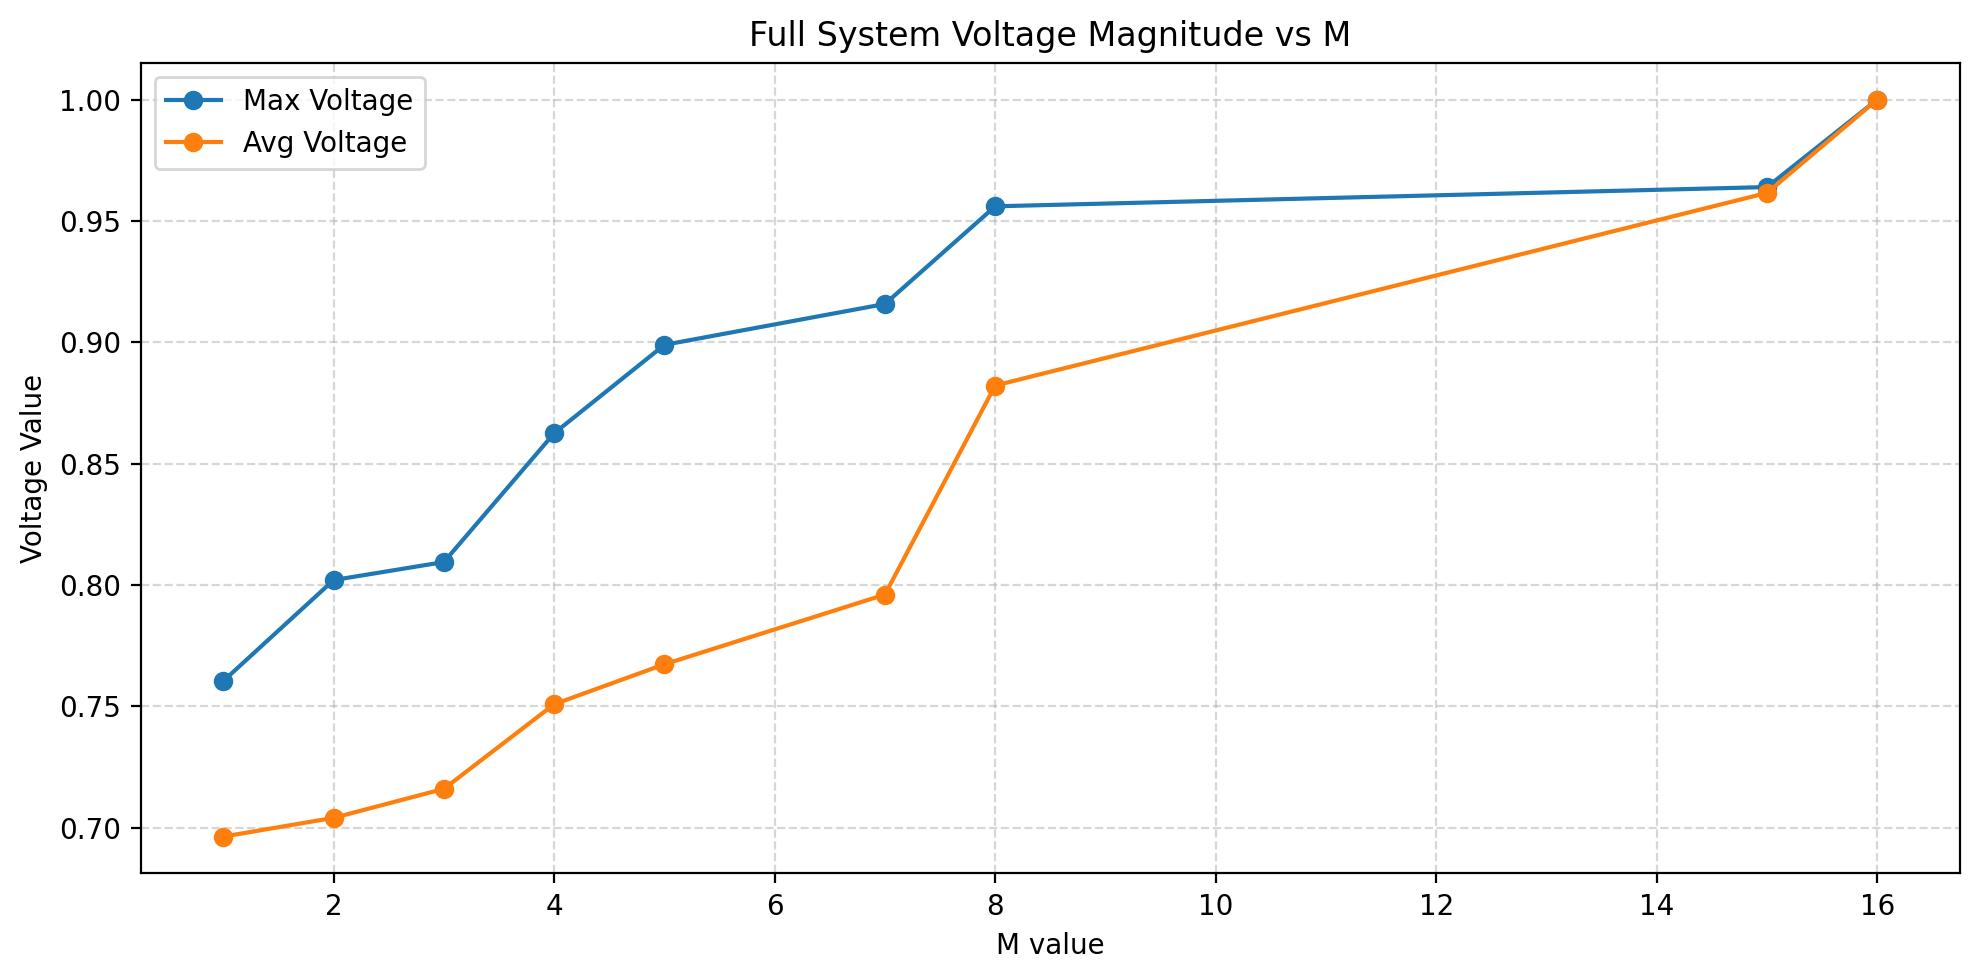
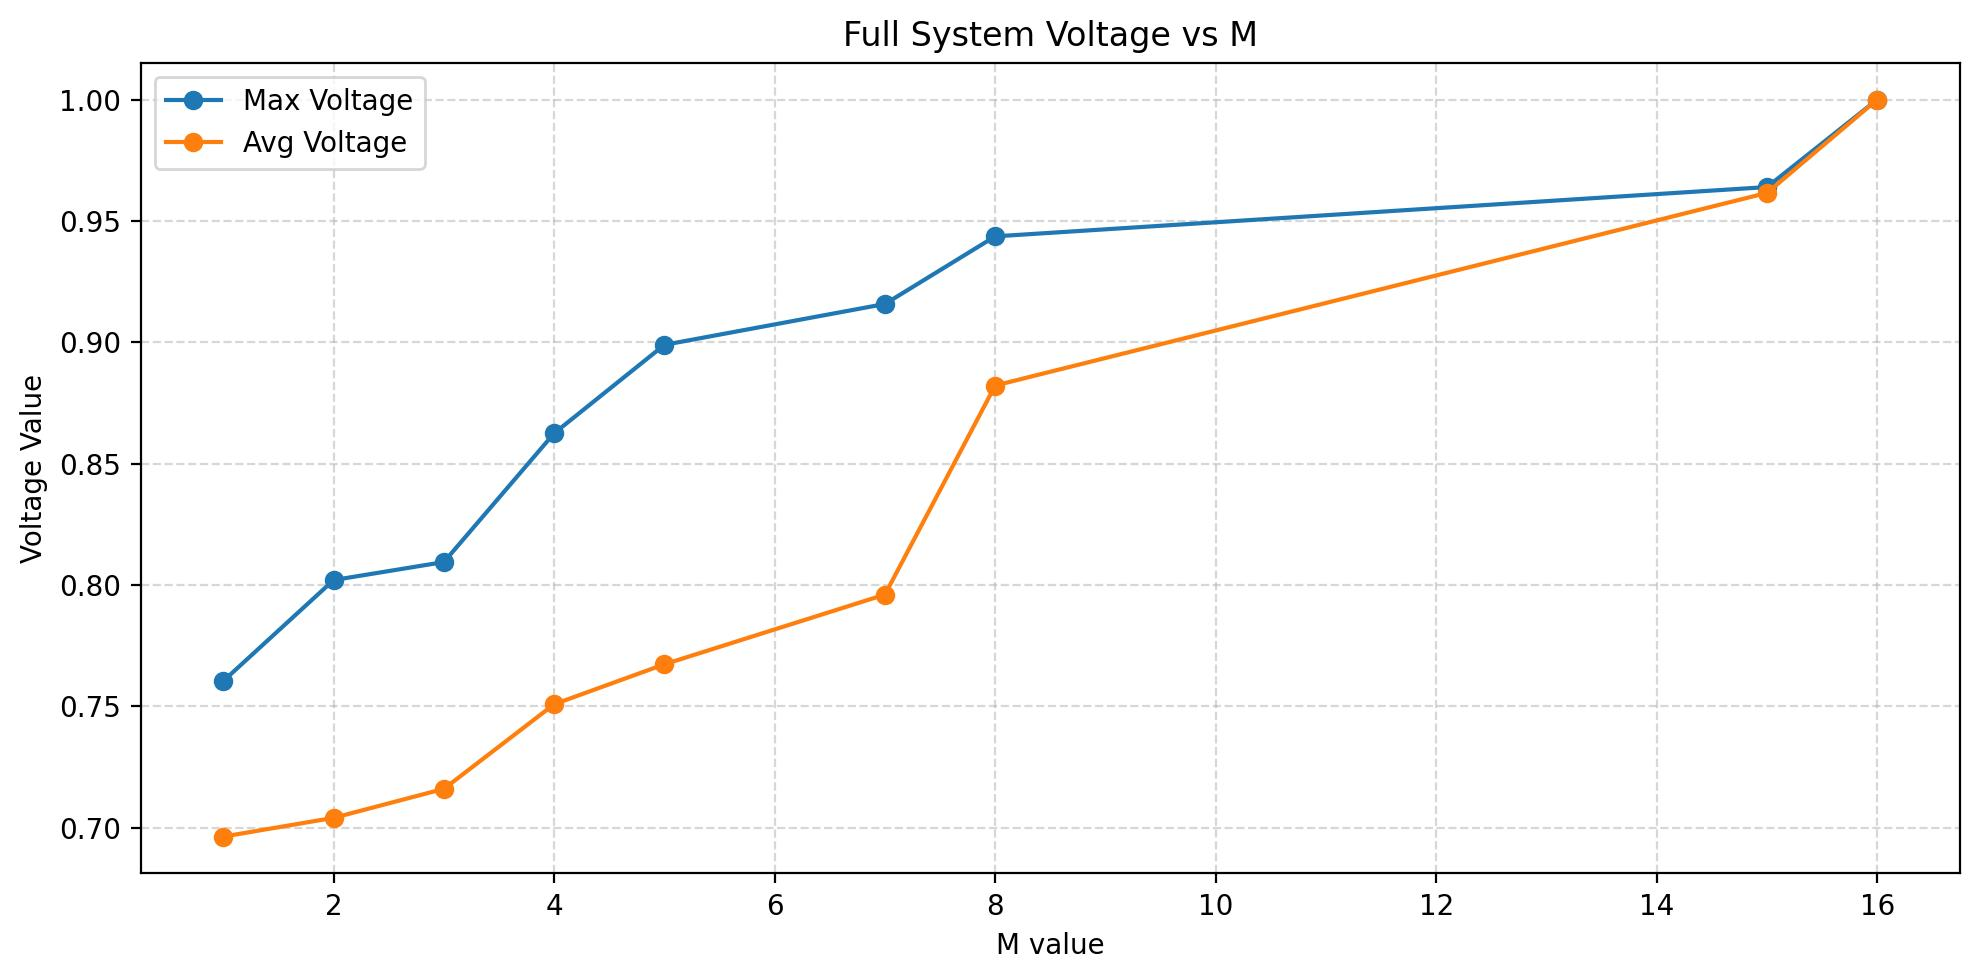
added plotting for system-level voltage

Changed region(s): [[0.4932, 0.1837, 0.8939, 0.2449], [0.3699, 0.0, 0.6781, 0.0612], [0.4315, 0.2449, 0.4932, 0.3061]]

diff --git a/fpga_implementation/data_processing/scripts/full_system_voltage_analysis.py b/fpga_implementation/data_processing/scripts/full_system_voltage_analysis.py
@@ -1,6 +1,5 @@
 import os
 from typing import Tuple, Dict
-import numpy as np
 import matplotlib.pyplot as plt
 
 
@@ -9,25 +8,15 @@ DEFAULT_TRACES_DIR = "/Users/omritriki/Programming/PEECC/fpga_implementation/dat
 OUTPUT_DIR = "/Users/omritriki/Programming/PEECC/fpga_implementation/data_processing/output"
 
 
-def compute_metrics_full(_: np.ndarray) -> Tuple[float, float]:
-    # Unused in override-only mode. Kept to avoid broader refactors.
-    return 0.0, 0.0
-
-
-def try_read_overrides() -> Dict[int, Tuple[float, float]]:
+def read_traces() -> Dict[int, Tuple[float, float]]:
     """
     If a overrides file exists in the traces directory, read it and return
     a map of M -> (MaxAbs_mV, AvgAbs_mV).
     """
-    path = os.path.join(DEFAULT_TRACES_DIR, "full_overrides.txt")
-    overrides: Dict[int, Tuple[float, float]] = {}
-    if not os.path.exists(path):
-        return overrides
+    path = os.path.join(DEFAULT_TRACES_DIR, "full_traces.txt")
+    traces: Dict[int, Tuple[float, float]] = {}
     with open(path, "r") as f:
         lines = [ln.strip() for ln in f if ln.strip()]
-    if not lines:
-        return overrides
-    # Skip header if present
     start_idx = 1 if lines[0].split(",")[0].lower() in {"m", "m_value"} else 0
     for ln in lines[start_idx:]:
         parts = [p.strip() for p in ln.split(",")]
@@ -39,26 +28,20 @@ def try_read_overrides() -> Dict[int, Tuple[float, float]]:
             av = float(parts[2])
         except ValueError:
             continue
-        overrides[m] = (mx, av)
-    return overrides
+        traces[m] = (mx, av)
+    return traces
 
 
 def main():
 
     m_values = [1, 2, 3, 4, 5, 7, 8, 15, 16]
-    overrides = try_read_overrides()
-    if not overrides:
-        raise FileNotFoundError(f"Overrides file not found or empty at {os.path.join(DEFAULT_TRACES_DIR, 'full_overrides.txt')}")
+    traces = read_traces()
 
     max_values: list[float] = []
     avg_values: list[float] = []
 
     for m in m_values:
-        if m in overrides:
-            max_val, avg_val = overrides[m]
-        else:
-            # If an M is missing in overrides, default to zeros
-            max_val, avg_val = 0.0, 0.0
+        max_val, avg_val = traces[m]
         max_values.append(max_val)
         avg_values.append(avg_val)
 
@@ -90,5 +73,3 @@ def main():
 
 if __name__ == "__main__":
     main()
-
-
